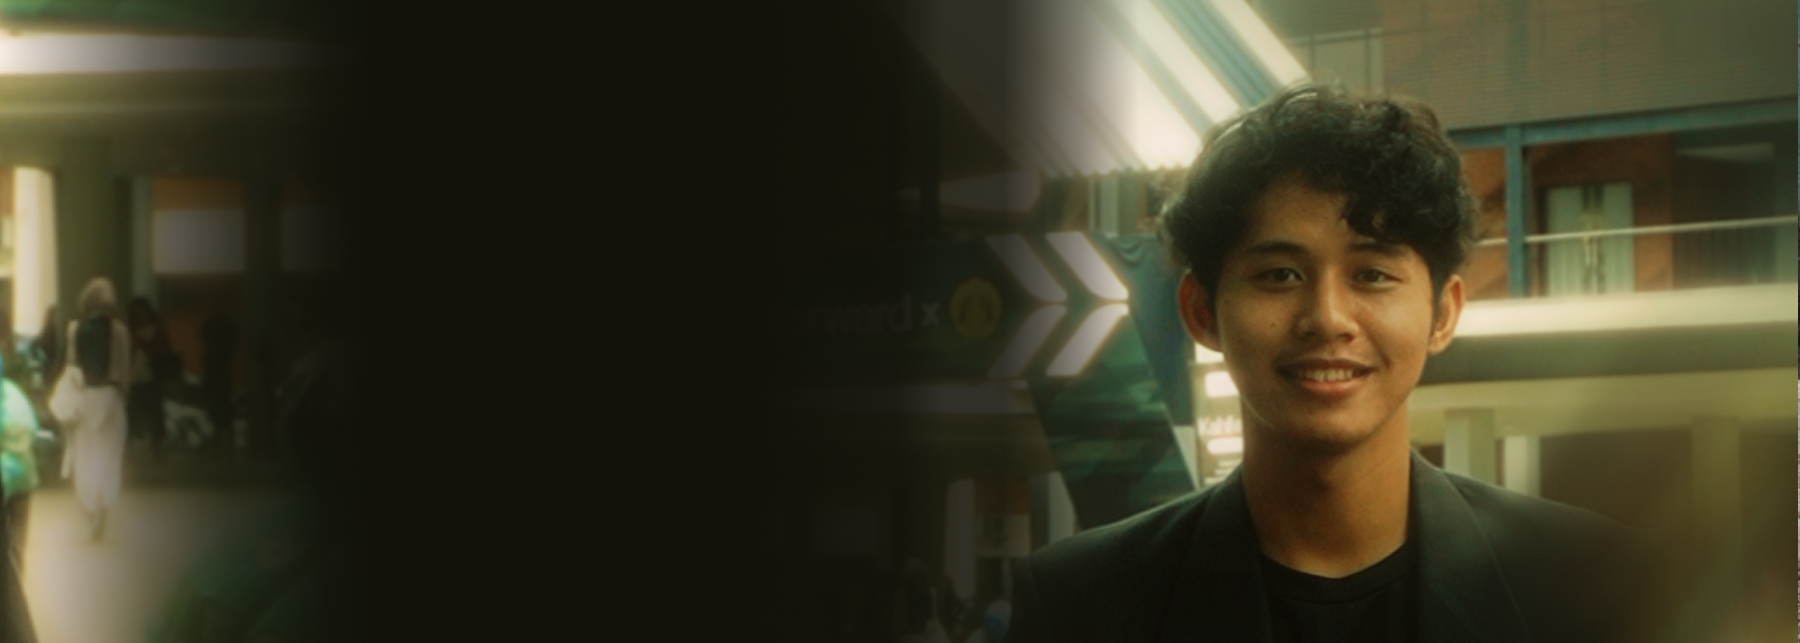
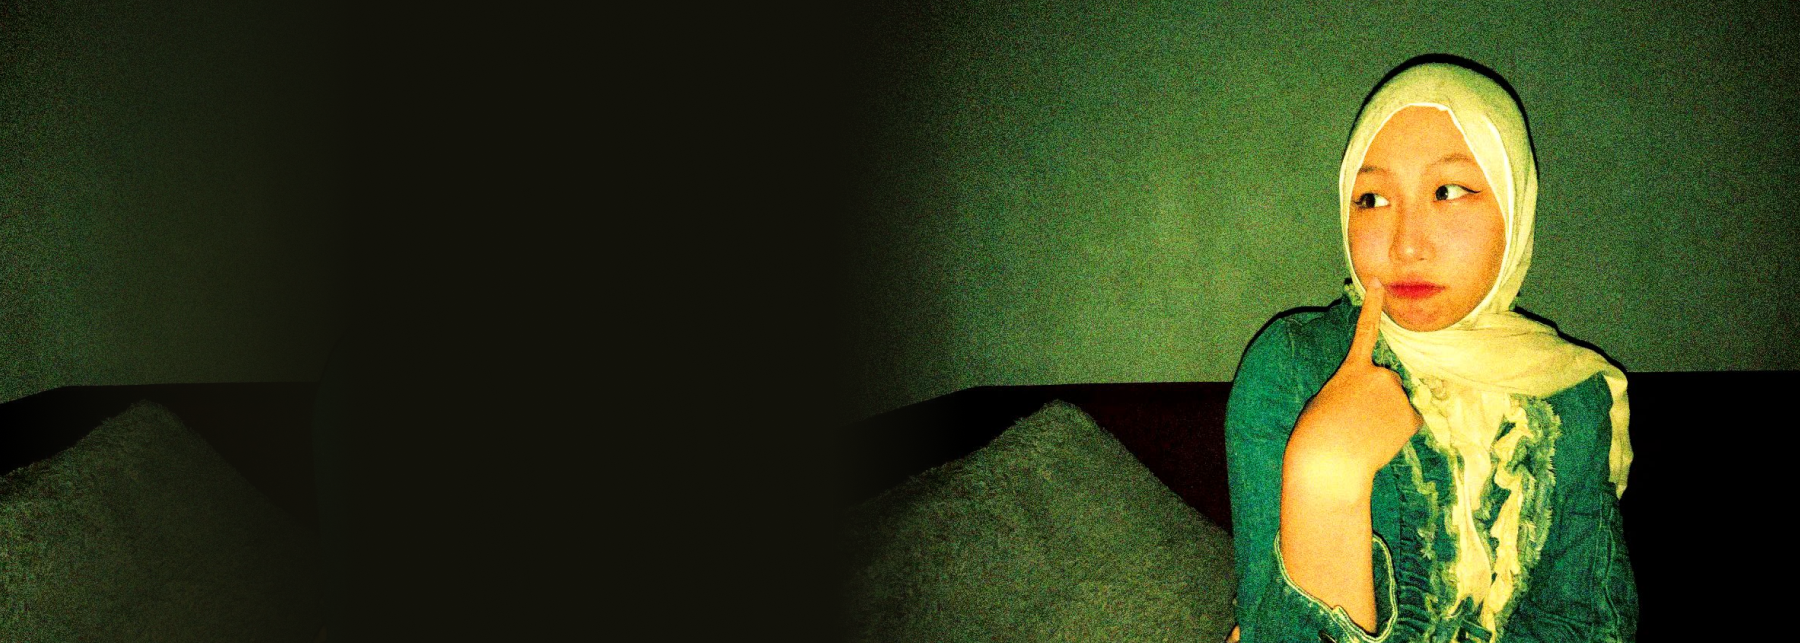
initialcommit

diff --git a/html/about-us.html b/html/about-us.html
@@ -4,8 +4,8 @@
 <head>
   <meta charset="utf-8">
   <meta name="viewport" content="width=device-width, initial-scale=1">
-  <title>Aldnlee</title>
-  <link rel="shortcut icon" type="image/png" href="../assets/images/logos/Ald.svg" />
+  <title>Ptrmldaa</title>
+  <link rel="shortcut icon" type="image/png" href="../assets/images/logos/ptr.svg" />
   <link rel="stylesheet" href="../assets/libs/owl.carousel/dist/assets/owl.carousel.min.css">
   <link rel="stylesheet" href="../assets/libs/aos-master/dist/aos.css">
   <link rel="stylesheet" href="../assets/css/styles.css" />
@@ -19,10 +19,10 @@
       <div class="header-wrapper d-flex align-items-center justify-content-between">
         <div class="logo">
           <a href="/index.html" class="logo-white">
-            <img src="../assets/images/logos/Aldnlee.svg" alt="logo" class="img-fluid">
+            <img src="../assets/images/logos/ptrmldaa.svg" alt="logo" class="img-fluid">
           </a>
           <a href="/index.html" class="logo-dark">
-            <img src="../assets/images/logos/Aldnlee-dark.svg" alt="logo" class="img-fluid">
+            <img src="../assets/images/logos/ptrmldaa-dark.svg" alt="logo" class="img-fluid">
           </a>
         </div>
         <div class="d-flex align-items-center gap-4">
@@ -42,7 +42,7 @@
                 <div class="d-flex flex-column gap-3">
                   <ul class="header-menu list-unstyled mb-0 d-flex flex-column gap-2">
                     <li class="header-item">
-                      <a href="index.html" class="header-link hstack gap-2 fs-7 fw-bold text-dark"><img
+                      <a href="https://ptrmldaa.netlify.app/index.html" class="header-link hstack gap-2 fs-7 fw-bold text-dark"><img
                           src="../assets/images/svgs/secondary-leaf.svg" alt="" width="20" height="20"
                           class="img-fluid animate-spin">Home</a>
                     </li>
@@ -56,27 +56,7 @@
                       <a href="projects.html" class="header-link hstack gap-2 fs-7 fw-bold text-dark"><img
                           src="../assets/images/svgs/secondary-leaf.svg" alt="" width="20" height="20"
                           class="img-fluid animate-spin">Projects</a>
-                    </li>
-                    <li class="header-item">
-                      <a href="blog.html" class="header-link hstack gap-2 fs-7 fw-bold text-dark"><img
-                          src="../assets/images/svgs/secondary-leaf.svg" alt="" width="20" height="20"
-                          class="img-fluid animate-spin">Blog</a>
-                    </li>
-                    <li class="header-item">
-                      <a href="index.html" class="header-link hstack gap-2 fs-7 fw-bold text-dark"><img
-                          src="../assets/images/svgs/secondary-leaf.svg" alt="" width="20" height="20"
-                          class="img-fluid animate-spin">Services</a>
-                    </li>
-                    <li class="header-item">
-                      <a href="contact.html" class="header-link hstack gap-2 fs-7 fw-bold text-dark"><img
-                          src="../assets/images/svgs/secondary-leaf.svg" alt="" width="20" height="20"
-                          class="img-fluid animate-spin">Contact</a>
-                    </li>
-                    <li class="header-item">
-                      <a href="index.html" class="header-link hstack gap-2 fs-7 fw-bold text-dark"><img
-                          src="../assets/images/svgs/secondary-leaf.svg" alt="" width="20" height="20"
-                          class="img-fluid animate-spin">Docs</a>
-                    </li>
+                    </li> 
                   </ul>
                 </div>
               </div>
@@ -129,22 +109,23 @@
               <div class="d-flex flex-column gap-4 gap-lg-5" data-aos="fade-up" data-aos-delay="200"
                 data-aos-duration="1000">
                 <p class="mb-0 fs-5 text-dark">
-                  Hello, my name is Alden Lee 👋
+                  Hello, my name is Putri Milda 👋
 <br>
 a multidiciplinary designer who design digital products with creative thinking and empathy, 
 for me these two things are really important in order to create design that fit the bussiness, users, 
-and product needs. With over 4 years as a full-stack designer, I create captivating designs that 
+and product needs. With over 4 years as a Graphic designer, I create captivating designs that 
 seamlessly merge aesthetics, impact, and profitability. 
                 </p>
                 <p class="mb-0 fs-5 text-dark">
-                  I bring ideas to life through a range of services: branding, web development, content creation, SaaS, and motion & 3D modeling. As a web designer, i merge artistry and
-                  technology to craft "digital experiences" that inform, captivate, and inspire. Every day brings
+                  Every day brings
                   something new — one moment i'am sketching innovative concepts, the next i'm turning them into
                   seamless, responsive designs. Web design keeps me pushing boundaries and creating at every turn!
                 </p>
               </div>
             </div>
           </div>
+
+          <!--
           <div class="row gx-xl-5">
             <div class="col-md-6 col-lg-4 mb-8 mb-lg-0">
               <div class="d-flex flex-column gap-7" data-aos="fade-up" data-aos-delay="100" data-aos-duration="1000">
@@ -179,7 +160,7 @@ seamlessly merge aesthetics, impact, and profitability.
           </div>
         </div>
       </div>
-    </section>
+    </section> -->
 
     <!--  About Img Section -->
     <section class="about-img">

diff --git a/index.html b/index.html
@@ -314,7 +314,6 @@
             <span>Portfolio</span>
             <div class="right-section-buttons">
               <a href="/html/gd.html">2025 Portfolio ↗</a>
-              <a href="https://aldnlee.github.io/">2022 Portfolio ↗</a>
             </div>
           </div>
         </div>
@@ -330,8 +329,6 @@
           <div class="section-content">
             <span>Contact Me</span>
             <div class="right-section-icons">
-              <a href="#">in</a>
-              <a href="#">gh</a>
               <a href="#">ig</a>
             </div>
           </div>
